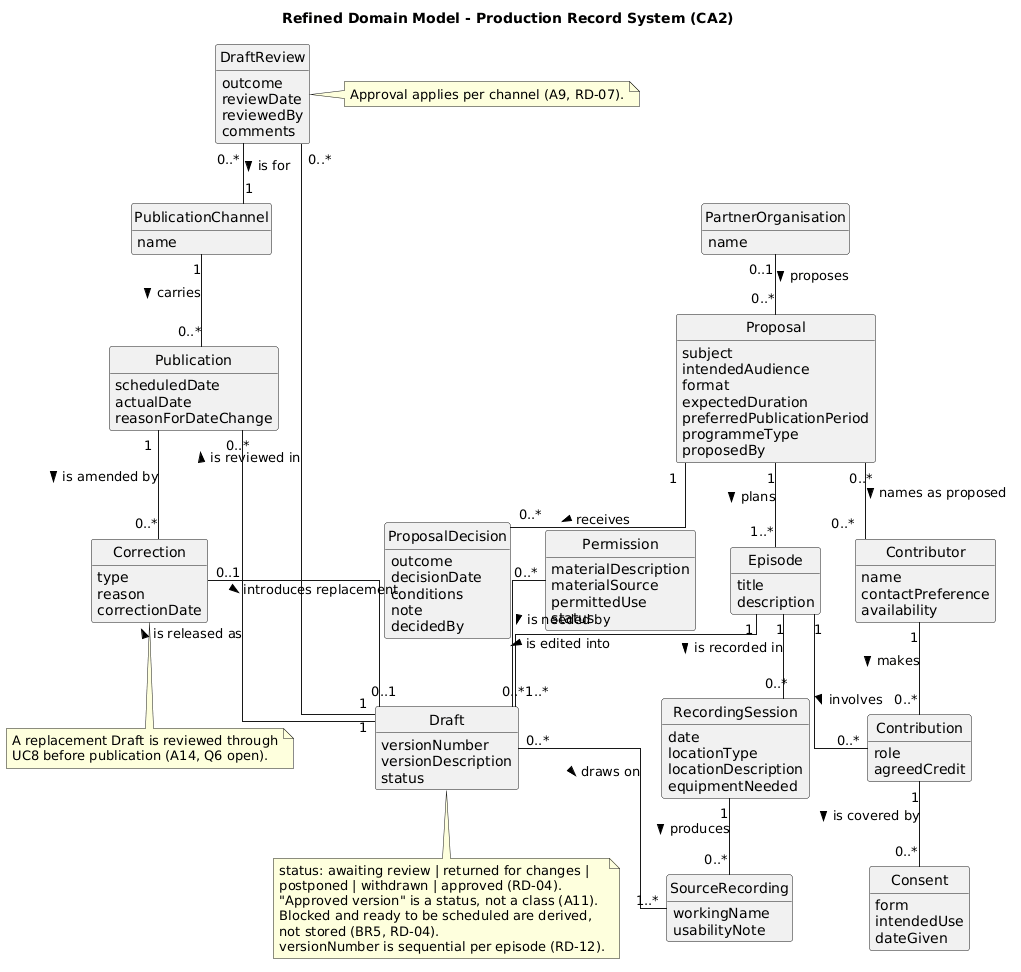
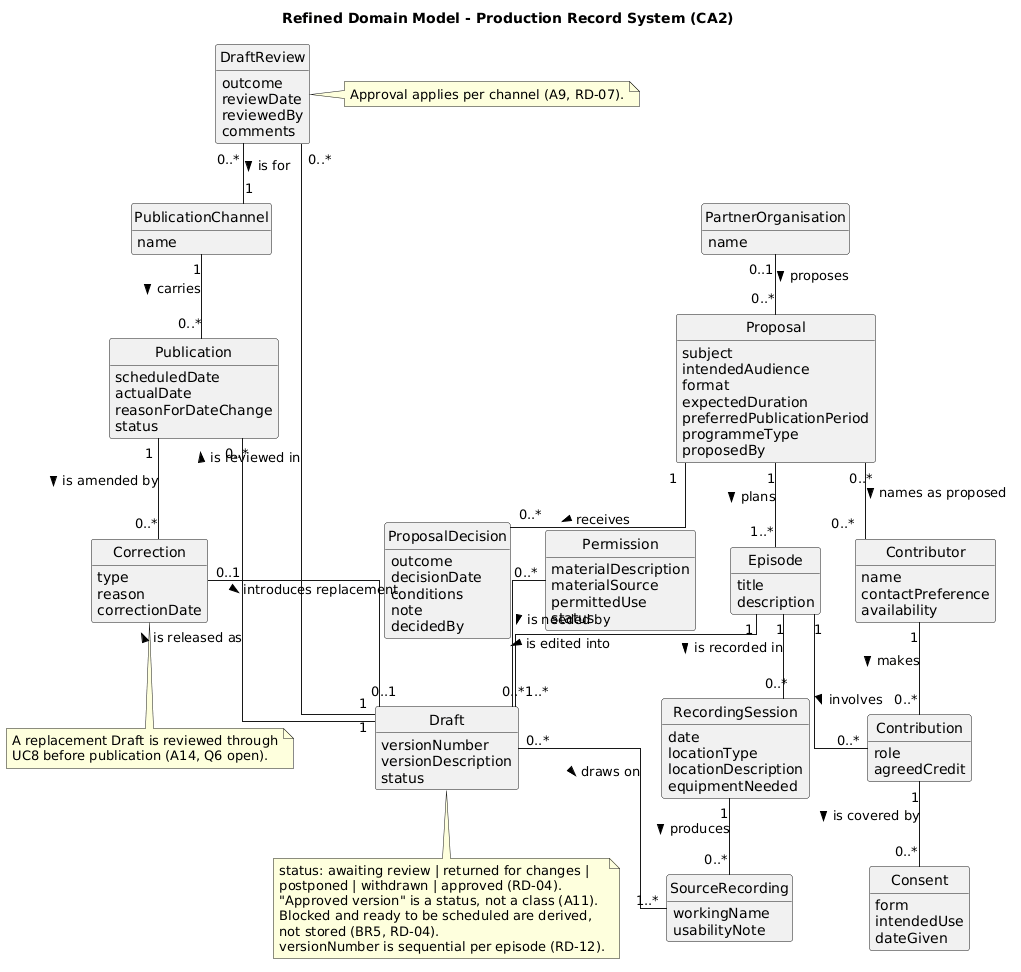
Add Publication.status so a correction requires a published release. (#31)

Changed region(s): [[0.0607, 0.3395, 0.2733, 0.5247], [0.1518, 0.6481, 0.2429, 0.679], [0.1518, 0.2778, 0.2125, 0.3086]]

diff --git a/CA 2/Group_Documents/Analysis_Baseline/analysis-baseline.md b/CA 2/Group_Documents/Analysis_Baseline/analysis-baseline.md
@@ -18,6 +18,7 @@ This is the agreed analysis that all CA2 design work builds on. It is the Scenar
 | Draft states: Blocked and Ready to be scheduled are derived, not stored; returned, postponed and withdrawn listed              | 6.4, 8 | RD-04                |
 | DraftReview linked to PublicationChannel                                                                                       | 9      | RD-07                |
 | `Draft.versionNumber` added                                                                                                    | 9      | RD-12                |
+| `Publication.status` added: scheduled or published                                                                             | 9      | OC02, OC04           |
 | Gherkin organised by section feature file                                                                                      | 7      | RD-09                |
 | Contributor concerns remain deferred                                                                                           | 2.3    | RD-17                |
 
@@ -364,7 +365,7 @@ Scenarios must use the terms in Section 8, especially Blocked, awaiting review a
 
 # 9. Domain model
 
-The conceptual model uses the 15 classes from the CA1 analysis, with the CA2 changes in RD-04, RD-07 and RD-12. It has no methods, controllers, repositories, interface controls, keys or navigability. The arrow after each association name shows reading direction only.
+The conceptual model uses the 15 classes from the CA1 analysis, with the CA2 changes in RD-04, RD-07 and RD-12, and `Publication.status` from OC02 and OC04. It has no methods, controllers, repositories, interface controls, keys or navigability. The arrow after each association name shows reading direction only.
 
 ![Refined domain model](../../Diagrams/Domain_Model/domain-model.png)
 
@@ -386,7 +387,7 @@ The conceptual model uses the 15 classes from the CA1 analysis, with the CA2 cha
 | Draft               | versionNumber, versionDescription, status (awaiting review, returned for changes, postponed, withdrawn, approved) | FR7, RD-04, RD-12 |
 | Permission          | materialDescription, materialSource, permittedUse, status                                                         | FR8               |
 | DraftReview         | outcome, reviewDate, reviewedBy, comments                                                                         | FR9               |
-| Publication         | scheduledDate, actualDate, reasonForDateChange                                                                    | FR10              |
+| Publication         | scheduledDate, actualDate, reasonForDateChange, status (scheduled, published)                                    | FR10, OC02, OC04  |
 | PublicationChannel  | name                                                                                                              | FR10              |
 | Correction          | type, reason, correctionDate                                                                                      | FR11              |
 
@@ -428,6 +429,8 @@ Several multiplicities come from reasoning, not scenario evidence, for example z
 - **Draft has a sequential versionNumber (RD-12).** It identifies each draft without deciding how versions relate (Q4).
 
 - **Draft carries approved status (A11).** How versions relate is unresolved (Q4), so a richer version structure is not justified.
+
+- **Publication carries status (scheduled, published).** OC02 sets it to scheduled when a date is recorded. OC04 allows a correction only when it is published. The attribute is stored so those contracts have a field to test.
 
 - **Publication links to Draft, not directly to Episode.** The episode is reached through the draft.
 
